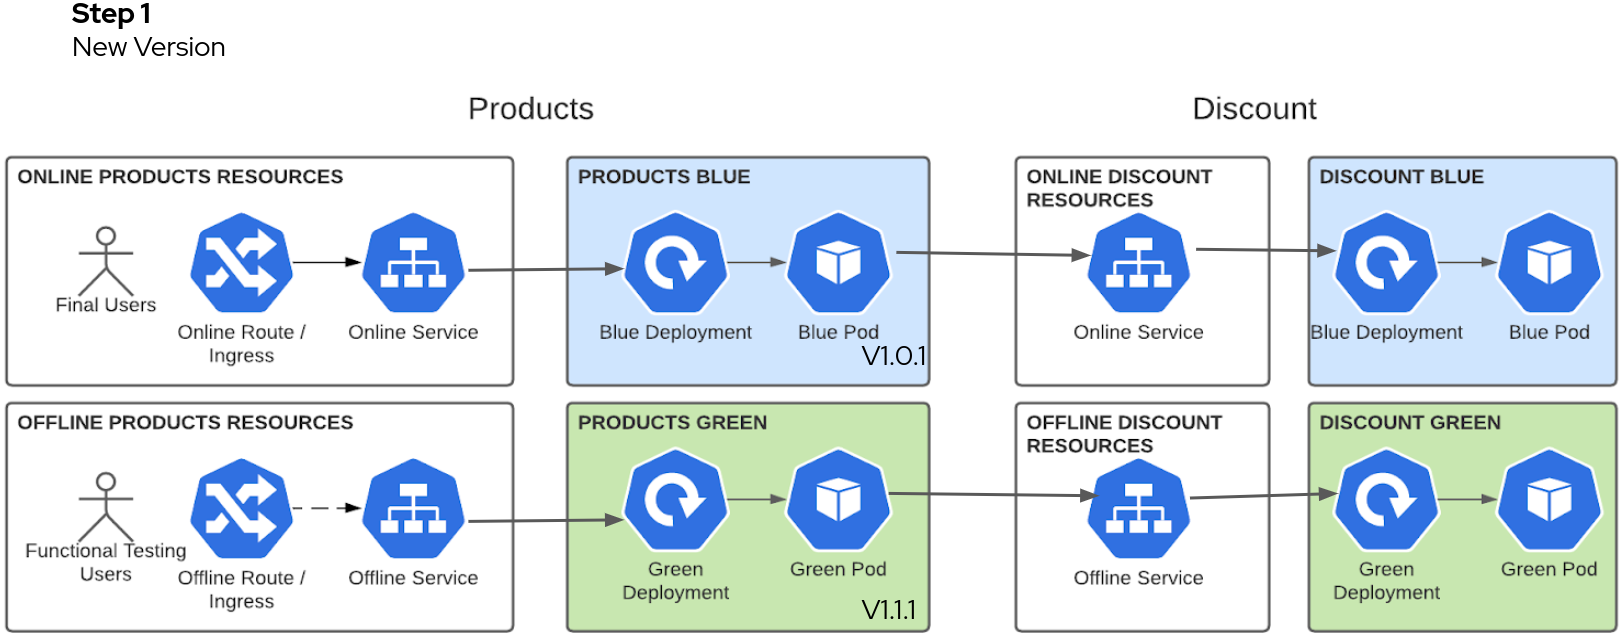
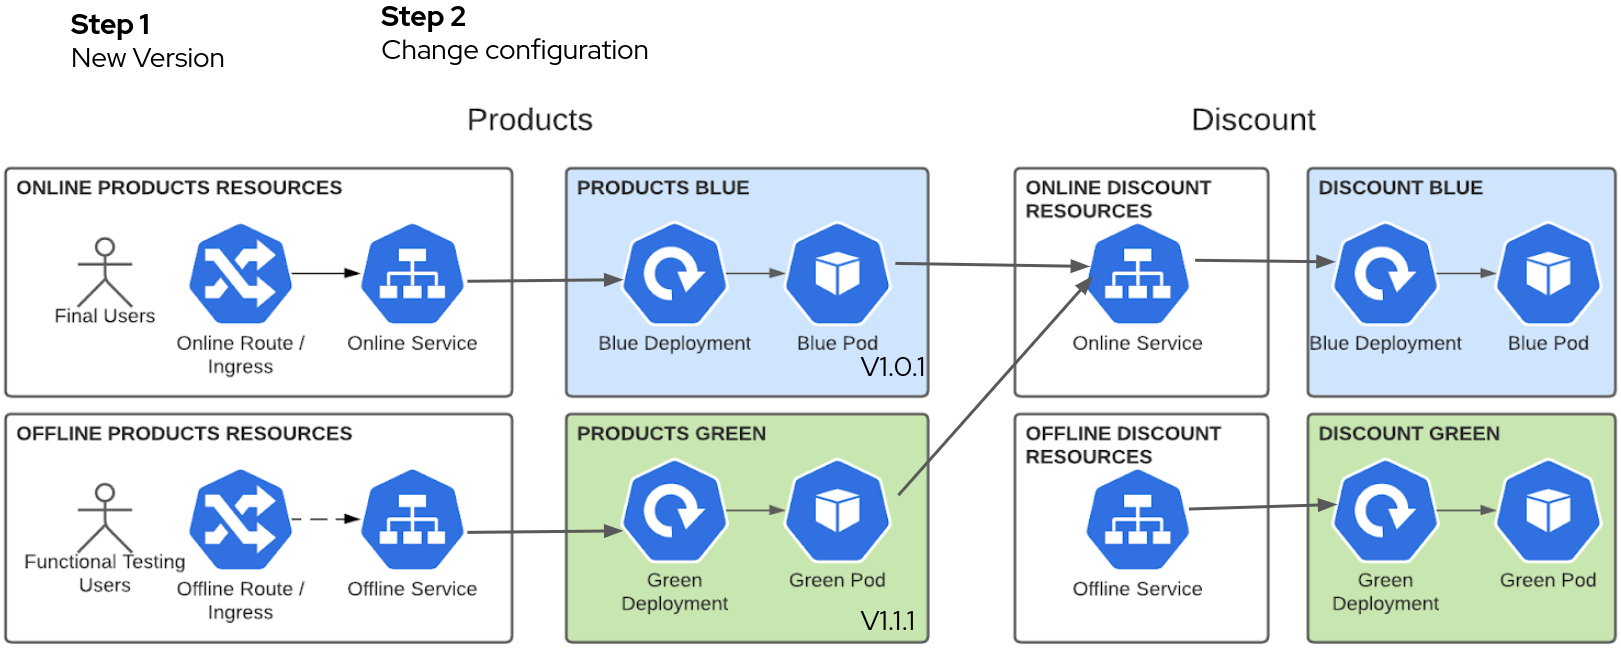
merge step 1 with 2

diff --git a/blue-green-pipeline/README.md b/blue-green-pipeline/README.md
@@ -334,15 +334,23 @@ This is our current status:
 ### Step 1 - Deploy new version
  
 We will start deploying a new version v1.1.1 in the offline color. But instead of going manually to see which is the offline color and deploy the new version on it, let's let the pipeline find the current offline color and automatically deploy the new version, with no manual intervention.
-We will use the already created pipelinerun to execute the first step with the new version v1.1.1
+We will use the already created pipelinerun.
+
+Those are the main tasks that are executed:
+- Change new tag image values in the right color and commit the changes.
+- Execute E2E test to validate the new version.
+- Change the application configuration values to use the online services and commit the changes.
+- Scale Up the offline color and commit the changes.
+
 ```
 cd blue-green-pipeline/pipelines/run-products
 oc create -f 1-pipelinerun-products-new-version.yaml -n gitops
 ```
-
 ![Pipeline step 1](../images/pipeline-step-1.png)
- 
-The pipeline has committed the changes in GitHub. ArgoCD will refresh the status after some minutes. If you don't want to wait you can refresh it manually from ArgoCD UI.
+
+This pipeline may take more time because we are doing three different commits, so ArgoCD has to synchronize one in order to continue with the pipeline. If you want to make it faster you can refresh ArgoCD manually after each  `commit-*` step.
+
+
 ![Refresh Shop](../images/ArgoCD-Shop-Refresh.png)
  
 After the pipeline finished and ArgoCD has synchronized the changes this will be the `Shop` status:
@@ -355,7 +363,14 @@ See that offline applications have the version v1.1.1 and the new attribute desc
 {
   "products":[
      {
-        "discountInfo":{...},
+        "discountInfo":{
+            "discounts":[...],
+            "metadata":{
+               "version":"v1.0.1",
+               "colour":"blue",
+               "mode":"online" <--
+            }
+        }, 
         "name":"TV 4K",
         "price":"1500€",
         "description":"The best TV" <--
@@ -370,42 +385,16 @@ See that offline applications have the version v1.1.1 and the new attribute desc
 ```
 Functional testing users can execute `Smoke tests` to validate this new v1.1.1 version.
  
-### Step 2 - Change to online configuration
- 
-Now we are going to change the configuration to online and also scale up the application to be ready for final users requests.
-The pipeline first will change the configuration and scale to 0, second will scale up the application to production number of replicas.
- 
-```
-oc create -f 2-pipelinerun-products-configuration.yaml -n gitops
-```
-This step may take more time because we are doing two different commits, so ArgoCD has to synchronize the first one in order to continue with the pipeline. If you want to make it faster you can refresh ArgoCD manually after the step `commit-configuration`.
-
-![Pipeline step 2](../images/pipeline-step-2.png)
- 
-After the pipeline finished and ArgoCD has synchronized the changes this will be the `Shop` status:
-![Shop step 2](../images/blue-green-step-2.png)
-We can see that now offline `Products` is calling `Discounts` online application.
-```json
-"discountInfo":{
-  "discounts":[...],
-  "metadata":{
-     "version":"v1.0.1",
-     "colour":"blue",
-     "mode":"online" <--
-  }
-}
-```
-At this point the application is ready to receive real traffic.
-### Step 3 - Switch new version to Online
+### Step 2 - Switch new version to Online
  
 We are going to open the new version to final users. The pipeline will just change the service to use the other color. Again the pipeline does this automatically without manual intervention. We also `minimize downtime` because it just changes the service label.
 ```
-oc create -f 3-pipelinerun-products-switch.yaml -n gitops
+oc create -f 2-pipelinerun-products-switch.yaml -n gitops
 ```
 
-![Pipeline step 3](../images/pipeline-step-3.png)
+![Pipeline step 2](../images/pipeline-step-3.png)
 After the pipeline finished and ArgoCD has synchronized the changes this will be the `Shop` status:
-![Shop step 3](../images/blue-green-step-3.png)
+![Shop step 2](../images/blue-green-step-3.png)
 **We have in the online environment the new version v1.1.1!!!**
 ```json
 {
@@ -425,16 +414,16 @@ After the pipeline finished and ArgoCD has synchronized the changes this will be
 }
 ```
  
-### Step 3,5 - Rollback
+### Step 2,5 - Rollback
  
 Imagine that something goes wrong, we know that this never happens but just in case. We can do a very `quick rollback` just undoing the change in the `Products` online service. But are we sure that with all the pressure that we will have at this moment, we will find the right service and change the label to the right color. Let's move this pressure to the pipeline. We can have a pipeline for rollback.
 ```
-oc create -f 3-pipelinerun-products-switch-rollback.yaml -n gitops
+oc create -f 2-pipelinerun-products-switch-rollback.yaml -n gitops
 ```
 
-![Pipeline step 3,5 Rollback](../images/pipeline-step-3-rollback.png)
+![Pipeline step 2,5 Rollback](../images/pipeline-step-3-rollback.png)
 After the pipeline finished and ArgoCD has synchronized the changes this will be the `Shop` status:
-![Shop step 3,5 Rollback](../images/blue-green-step-3-5.png)
+![Shop step 2,5 Rollback](../images/blue-green-step-3-5.png)
 We have version v1.0.1 online again.
 ```json
 {
@@ -455,9 +444,9 @@ We have version v1.0.1 online again.
  
 After fixing the issue we can execute the Switch step again.
 ```
-oc create -f 3-pipelinerun-products-switch.yaml -n gitops
+oc create -f 2-pipelinerun-products-switch.yaml -n gitops
 ```
-![Shop step 3](../images/blue-green-step-3.png)
+![Shop step 2](../images/blue-green-step-3.png)
 We have in the online environment the new version v1.1.1 again.
 ```json
 {
@@ -476,16 +465,16 @@ We have in the online environment the new version v1.1.1 again.
   }
 }
 ```
-### Step 4 - Align and scale down Offline
+### Step 3 - Align and scale down Offline
  
 Finally, when online is stable we should align offline with the new version and scale it down. Does not make sense to use the same resources that we have in production.
 ```
-oc create -f 4-pipelinerun-products-scale-down.yaml -n gitops
+oc create -f 3-pipelinerun-products-scale-down.yaml -n gitops
 ```
 
-![Pipeline step 4](../images/pipeline-step-4.png)
+![Pipeline step 3](../images/pipeline-step-4.png)
 After the pipeline finished and ArgoCD has synchronized the changes this will be the `Shop` status:
-![Shop step 4](../images/blue-green-step-4.png)
+![Shop step 3](../images/blue-green-step-4.png)
 We can see that the offline `Products` is calling offline `Discounts` and has the new version v1.1.1
 ```json
 {
